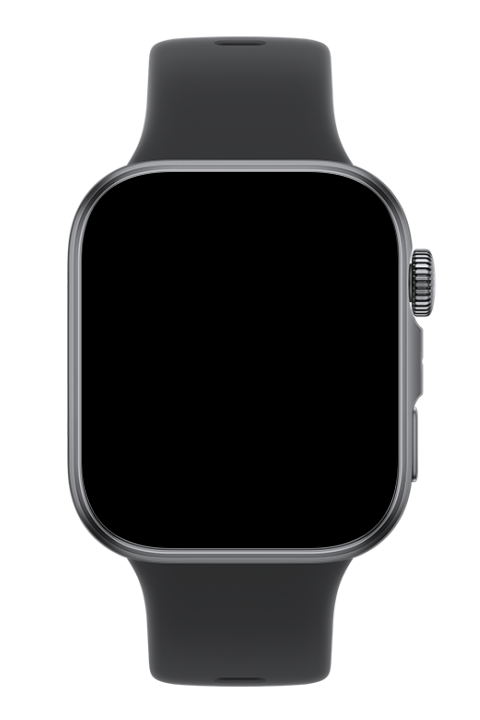
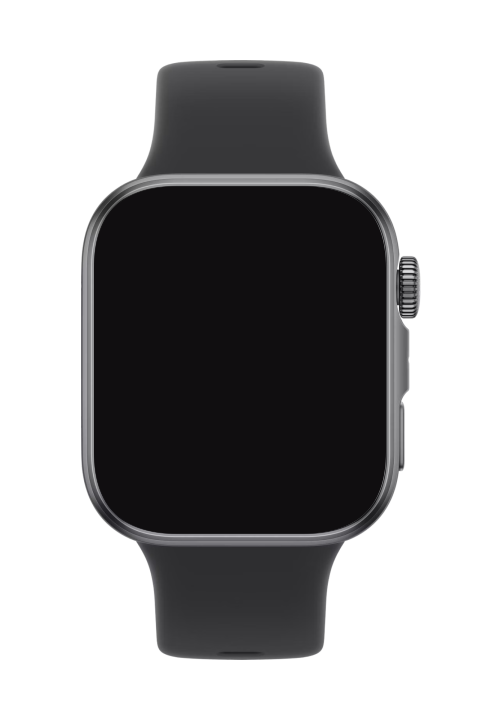
Added new devices

Changed region(s): [[0.125, 0.0306, 0.9062, 0.9778]]

diff --git a/modals/history_ru.html b/modals/history_ru.html
@@ -1,6 +1,16 @@
 <div id="versions">
   <div>
     <div class="version">
+      <span class="number">1.3.20</span>
+      <span class="time" data-timestamp="1787417100">22.08.2026</span>
+    </div>
+    - Добавлены CMF Watch Pro 2 Blue, Watch Pro 3 Light Green.</br>
+    - Добавлены Huawei Watch D3 (Black, Gold, Mocha Gold), Fit 3 (Green, Grey, Pink, White, White Leather), Fit 4 (Grey), Watch 6 42mm (Black, Gold, White), Watch 6 46mm (Black, Blue), Watch 6 Pro 43mm (Ceramic Edition, White), Watch 6 Pro 46mm (Brown, Silver, Space Edition).</br>
+    - Обновлены изображения CMF Watch Pro 2 (Ash, Dark, Orange).</br>
+    - Обновлены изображения Huawei Watch D2, Fit 3 (Black), Fit 4 (Black, Purple, White).</br>
+  </div>
+  <div>
+    <div class="version">
       <span class="number">1.3.19</span>
       <span class="time" data-timestamp="1787417100">22.08.2026</span>
     </div>
